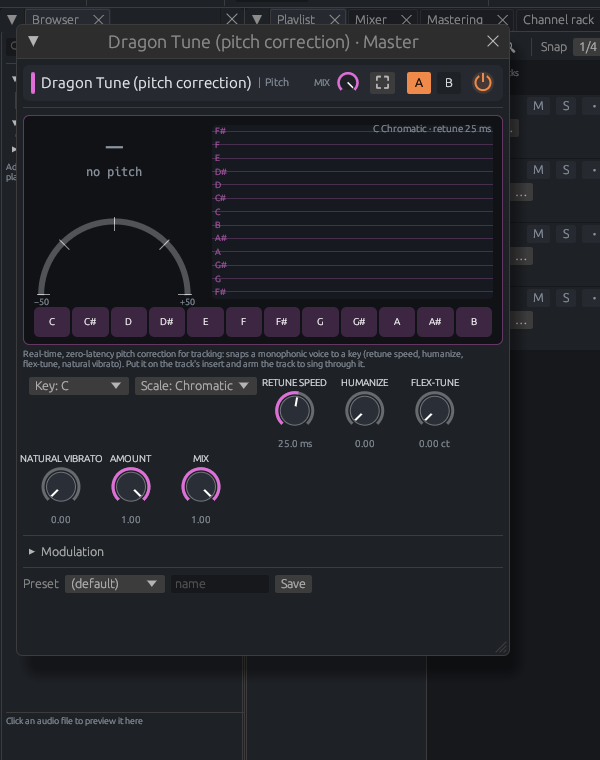
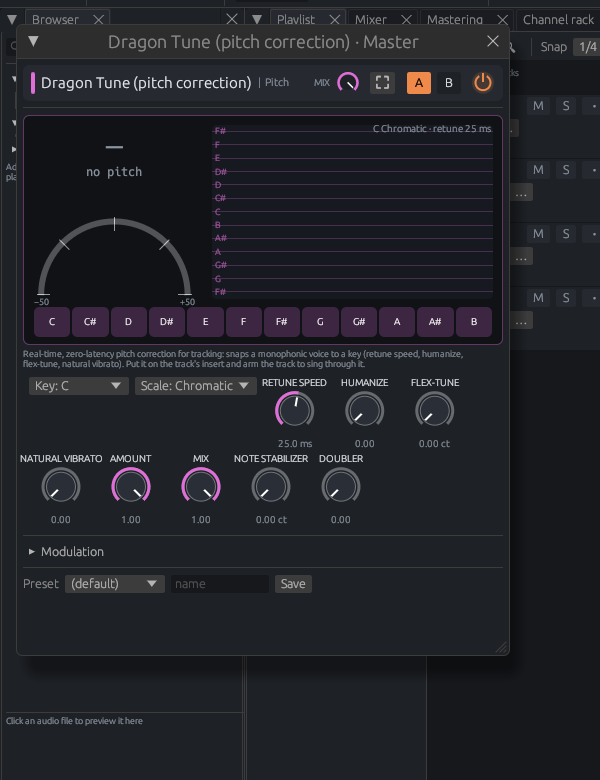
Plugin windows keep the editor's size under window managers; MetaTune features in Dragon Tune
- Fixed-size plugin windows set min = max size hints at their first size, so a window
  manager kept them there when the plugin asked for another size; the hints now follow
  every resize, and full screen lifts them (restored afterwards)
- Host test: the CLAP and VST3 test editors' windows take 500 x 400 after their resize
  request; with DRAGON_TEST_WM=1 under a window manager full screen fills the screen and
  returns to the editor size
- Dragon Tune: note stabilizer and doubler (after MetaTune) with a test, heat map on the
  note keys; screenshot updated

Claude-Session: https://claude.ai/code/session_01Ffo2AZuJnk2VUfQjcmSkWA

diff --git a/crates/engine/src/effects/pitch.rs b/crates/engine/src/effects/pitch.rs
@@ -178,6 +178,11 @@ const TUNE_PARAMS: &[ParamInfo] = &[
     ParamInfo::lin("vibrato", "Natural vibrato", 0.0, 1.0, 0.0, ""),
     ParamInfo::lin("amount", "Amount", 0.0, 1.0, 1.0, ""),
     ParamInfo::lin("mix", "Mix", 0.0, 1.0, 1.0, ""),
+    // MetaTune's Note Stabilizer: a held note is kept until the voice moves this far past the midpoint to
+    // the next note (no flutter between two notes).
+    ParamInfo::lin("stabilizer", "Note stabilizer", 0.0, 100.0, 0.0, "ct"),
+    // MetaTune's Doubler: two tuned copies, slightly delayed and detuned, panned left and right.
+    ParamInfo::lin("doubler", "Doubler", 0.0, 1.0, 0.0, ""),
 ];
 
 /// Analysis every 128 samples (2.7 ms at 48 kHz) over 1024 samples (enough for voices down to ~90 Hz).
@@ -211,6 +216,12 @@ pub struct PitchCorrect {
     pub detected: Option<f32>,
     /// [detected MIDI (−1 = none), target MIDI, output MIDI, clarity] for the display.
     tele: [f32; 4],
+    stabilizer: f32,
+    doubler: f32,
+    /// Doubler: delay lines of the tuned signal and the modulation phase.
+    dbl: [Vec<f32>; 2],
+    dbl_pos: usize,
+    dbl_phase: f32,
 }
 
 impl PitchCorrect {
@@ -238,6 +249,11 @@ impl PitchCorrect {
             centre: 0.0,
             detected: None,
             tele: [-1.0, -1.0, -1.0, 0.0],
+            stabilizer: 0.0,
+            doubler: 0.0,
+            dbl: [vec![0.0; (rate * 0.05) as usize + 4], vec![0.0; (rate * 0.05) as usize + 4]],
+            dbl_pos: 0,
+            dbl_phase: 0.0,
         }
     }
 
@@ -256,7 +272,11 @@ impl PitchCorrect {
                 } else {
                     self.centre += (m - self.centre) * 0.08;
                 }
-                let target = nearest_in_scale(self.centre, self.key, TUNE_SCALES[self.scale].1);
+                let mut target = nearest_in_scale(self.centre, self.key, TUNE_SCALES[self.scale].1);
+                // Note stabilizer: stay on the held note until the voice is clearly on another.
+                if self.stabilizer > 0.0 && self.held.0 > 0.0 && (target - self.held.0).abs() > 0.01 && (self.centre - self.held.0).abs() * 100.0 < 50.0 + self.stabilizer {
+                    target = self.held.0;
+                }
                 let wobble = (m - self.centre) * self.vibrato;
                 let off_cents = (target - m).abs() * 100.0;
                 // Flex-tune: notes already within the window are left alone.
@@ -295,6 +315,8 @@ impl Effect for PitchCorrect {
             "humanize" => self.humanize = v.clamp(0.0, 1.0),
             "flex" => self.flex = v.clamp(0.0, 50.0),
             "vibrato" => self.vibrato = v.clamp(0.0, 1.0),
+            "stabilizer" => self.stabilizer = v.clamp(0.0, 100.0),
+            "doubler" => self.doubler = v.clamp(0.0, 1.0),
             _ => {}
         }
     }
@@ -308,6 +330,7 @@ impl Effect for PitchCorrect {
         self.fill = 0;
         self.ratio = 1.0;
         self.target_ratio = 1.0;
+        self.dbl.iter_mut().for_each(|d| d.fill(0.0));
     }
     fn process(&mut self, l: &mut [f32], r: &mut [f32], _sc: Option<(&[f32], &[f32])>) {
         // Humanize: notes held longer than ~120 ms are retuned more slowly (up to 8× the speed setting).
@@ -326,8 +349,29 @@ impl Effect for PitchCorrect {
             }
             self.ratio = self.target_ratio + (self.ratio - self.target_ratio) * coef;
             let (dl, dr) = (l[i], r[i]);
-            let wl = self.sl.process(dl, self.ratio);
-            let wr = self.sr.process(dr, self.ratio);
+            let mut wl = self.sl.process(dl, self.ratio);
+            let mut wr = self.sr.process(dr, self.ratio);
+            if self.doubler > 0.0 {
+                // Two copies of the tuned voice: 14 and 23 ms behind, their delay swaying slowly (a few
+                // cents of detune), one on each side.
+                let n = self.dbl[0].len();
+                self.dbl[0][self.dbl_pos] = wl;
+                self.dbl[1][self.dbl_pos] = wr;
+                self.dbl_phase = (self.dbl_phase + 0.37 / self.rate).fract();
+                let sway = (self.dbl_phase * std::f32::consts::TAU).sin();
+                let tap = |buf: &[f32], ms: f32| {
+                    let d = (ms * 0.001 * self.rate).min(n as f32 - 2.0);
+                    let p = (self.dbl_pos as f32 - d).rem_euclid(n as f32);
+                    let (k, f) = (p.floor() as usize, p.fract());
+                    buf[k] * (1.0 - f) + buf[(k + 1) % n] * f
+                };
+                let a = tap(&self.dbl[0], 14.0 + 1.5 * sway);
+                let b = tap(&self.dbl[1], 23.0 - 1.5 * sway);
+                self.dbl_pos = (self.dbl_pos + 1) % n;
+                let g = self.doubler * 0.7;
+                wl += a * g;
+                wr += b * g;
+            }
             l[i] = dl * (1.0 - self.mix) + wl * self.mix;
             r[i] = dr * (1.0 - self.mix) + wr * self.mix;
         }
@@ -395,6 +439,45 @@ mod tests {
         assert!(ms < 6.0, "grain delay {ms:.1} ms");
         let t = e.telemetry();
         assert!((t[0] - 57.0).abs() < 0.1, "detected A3: {t:?}");
+    }
+
+    /// MetaTune's Note Stabilizer holds a note when the voice wavers just past the midpoint; the Doubler
+    /// widens a mono voice (the two sides differ).
+    #[test]
+    fn stabilizer_and_doubler() {
+        // C4 held, then the voice drifts to 60.6 (past the C/C# midpoint, chromatic scale).
+        let run = |stab: f32| {
+            let mut e = PitchCorrect::new(48000.0);
+            e.set_param("stabilizer", stab);
+            let hz = |m: f32| 440.0 * 2f32.powf((m - 69.0) / 12.0);
+            let mut ph = 0.0f32;
+            let mut sig = |m: f32, n: usize| -> Vec<f32> {
+                (0..n)
+                    .map(|_| {
+                        ph += hz(m) / 48000.0;
+                        (ph * std::f32::consts::TAU).sin() * 0.5
+                    })
+                    .collect()
+            };
+            let mut x = sig(60.0, 24000);
+            x.extend(sig(60.6, 24000));
+            let (mut l, mut r) = (x.clone(), x);
+            for (a, b) in l.chunks_mut(64).zip(r.chunks_mut(64)) {
+                e.process(a, b, None);
+            }
+            e.telemetry()[1]
+        };
+        assert_eq!(run(0.0), 61.0, "without the stabilizer it jumps to C#");
+        assert_eq!(run(30.0), 60.0, "the stabilizer keeps C");
+        let mut e = PitchCorrect::new(48000.0);
+        e.set_param("doubler", 1.0);
+        let x = sine(220.0, 1.0);
+        let (mut l, mut r) = (x.clone(), x);
+        for (a, b) in l.chunks_mut(64).zip(r.chunks_mut(64)) {
+            e.process(a, b, None);
+        }
+        let diff: f32 = l[24000..].iter().zip(&r[24000..]).map(|(a, b)| (a - b).abs()).sum::<f32>() / 24000.0;
+        assert!(diff > 0.02, "doubled sides differ: {diff}");
     }
 
     /// Flex-tune leaves notes that are already close enough alone.

diff --git a/crates/engine/src/plugins/window.rs b/crates/engine/src/plugins/window.rs
@@ -9,12 +9,17 @@ use std::ffi::c_void;
 
 pub struct EditorWindow {
     inner: imp::Window,
+    /// Whether the user may resize the window; a fixed-size window's size hints follow every resize the
+    /// plugin asks for (otherwise a window manager keeps it at the size it opened with).
+    resizable: bool,
+    /// The size before full screen.
+    before: (u32, u32),
 }
 
 impl EditorWindow {
     /// Opens a window of `width` × `height` pixels.
     pub fn open(title: &str, width: u32, height: u32) -> Result<EditorWindow> {
-        Ok(EditorWindow { inner: imp::Window::open(title, width.max(32), height.max(32))? })
+        Ok(EditorWindow { inner: imp::Window::open(title, width.max(32), height.max(32))?, resizable: true, before: (width.max(32), height.max(32)) })
     }
 
     /// The native handle to embed into: an X11 window id, or an `HWND`.
@@ -23,7 +28,11 @@ impl EditorWindow {
     }
 
     pub fn resize(&mut self, width: u32, height: u32) {
-        self.inner.resize(width.max(32), height.max(32));
+        let (w, h) = (width.max(32), height.max(32));
+        if !self.resizable && !self.inner.fullscreen {
+            self.inner.set_resizable(false, (w, h));
+        }
+        self.inner.resize(w, h);
     }
 
     /// Current inner size in pixels.
@@ -33,12 +42,29 @@ impl EditorWindow {
 
     /// Lets the user resize the window (only for editors that can follow a new size).
     pub fn set_resizable(&mut self, on: bool, size: (u32, u32)) {
+        self.resizable = on;
         self.inner.set_resizable(on, size);
     }
 
     /// Full screen on (covers the monitor) or back to the previous size.
     pub fn set_fullscreen(&mut self, on: bool) {
-        self.inner.set_fullscreen(on);
+        if on == self.inner.fullscreen {
+            return;
+        }
+        if on {
+            // A fixed-size window would be refused by the window manager: lift the limits first.
+            self.before = self.inner.size();
+            if !self.resizable {
+                self.inner.set_resizable(true, self.before);
+            }
+            self.inner.set_fullscreen(true);
+        } else {
+            self.inner.set_fullscreen(false);
+            if !self.resizable {
+                self.inner.set_resizable(false, self.before);
+                self.inner.resize(self.before.0, self.before.1);
+            }
+        }
     }
 
     pub fn is_fullscreen(&self) -> bool {

diff --git a/crates/test-plugins/tests/host.rs b/crates/test-plugins/tests/host.rs
@@ -236,6 +236,35 @@ fn editors_embed_resize_and_report_gui_edits() {
     assert_eq!(cp.editor_window().unwrap().child_count(), 1);
     assert!(Effect::editor(&mut vp, true));
     assert_eq!(vp.editor_window().unwrap().child_count(), 1);
+    // The host window takes exactly the editor's size: 320 × 200 at first, 500 × 400 after the plugin
+    // asked for it.
+    for _ in 0..20 {
+        Effect::idle(&mut cp);
+        Effect::idle(&mut vp);
+        std::thread::sleep(std::time::Duration::from_millis(5));
+    }
+    assert_eq!(cp.editor_window().unwrap().size(), (500, 400), "clap window fits its editor");
+    assert_eq!(vp.editor_window().unwrap().size(), (500, 400), "vst3 window fits its editor");
+    // Full screen needs a window manager (EWMH); run with DRAGON_TEST_WM=1 under one (e.g. openbox on Xvfb).
+    if std::env::var_os("DRAGON_TEST_WM").is_some() {
+        let settle = |cp: &mut ClapPlugin, vp: &mut Vst3Plugin| {
+            for _ in 0..40 {
+                Effect::idle(cp);
+                Effect::idle(vp);
+                std::thread::sleep(std::time::Duration::from_millis(10));
+            }
+        };
+        assert!(cp.set_editor_fullscreen(true) && vp.set_editor_fullscreen(true));
+        settle(&mut cp, &mut vp);
+        let screen = |w: (u32, u32)| w.0 >= 1000 && w.1 >= 700;
+        assert!(screen(cp.editor_window().unwrap().size()), "clap full screen: {:?}", cp.editor_window().unwrap().size());
+        assert!(screen(vp.editor_window().unwrap().size()), "vst3 full screen: {:?}", vp.editor_window().unwrap().size());
+        // (returns the new state: false = left full screen)
+        assert!(!cp.set_editor_fullscreen(false) && !vp.set_editor_fullscreen(false));
+        settle(&mut cp, &mut vp);
+        assert_eq!(cp.editor_window().unwrap().size(), (500, 400), "clap back to its editor size");
+        assert_eq!(vp.editor_window().unwrap().size(), (500, 400), "vst3 back to its editor size");
+    }
 }
 
 #[test]

diff --git a/crates/app/src/views/fx_ui.rs b/crates/app/src/views/fx_ui.rs
@@ -1420,10 +1420,28 @@ fn tune(p: &egui::Painter, r: Rect, h: &Hero, col: Color32) {
     let kr = Rect::from_min_max(Pos2::new(r.left() + 10.0, r.bottom() - 38.0), Pos2::new(r.right() - 10.0, r.bottom() - 8.0));
     let kw = kr.width() / 12.0;
     let tgt = if target >= 0.0 { Some((target.round() as i32).rem_euclid(12) as usize) } else { None };
+    // MetaTune-style heat map: every detected note warms its key; the heat fades over a few seconds.
+    let heat_id = h.key.with("tune.heat");
+    let mut heat: [f32; 12] = p.ctx().data(|d| d.get_temp(heat_id)).unwrap_or([0.0; 12]);
+    if h.time.is_some() {
+        for v in heat.iter_mut() {
+            *v *= 0.985;
+        }
+        if let Some(d) = det {
+            let pc = (d.round() as i32).rem_euclid(12) as usize;
+            heat[pc] = (heat[pc] + 0.06).min(1.0);
+        }
+        p.ctx().data_mut(|d| d.insert_temp(heat_id, heat));
+    }
     for (i, nm) in KEYS.iter().enumerate() {
         let b = Rect::from_min_size(Pos2::new(kr.left() + i as f32 * kw + 1.0, kr.top()), Vec2::new(kw - 2.0, kr.height()));
         let on = in_scale(i);
         let lit = tgt == Some(i);
+        // Heat glow (orange) under the key.
+        if heat[i] > 0.02 {
+            let hc = Color32::from_rgb(0xf0, 0x8a, 0x4b).gamma_multiply(heat[i].sqrt() * 0.9);
+            p.rect_filled(b.expand(2.0), 6.0, hc);
+        }
         p.rect_filled(
             b,
             5.0,

diff --git a/README.md b/README.md
@@ -45,7 +45,7 @@ docking, command pool, shortcuts, palette, navigation and i18n. Dragon DAW is no
 | 🎙 **Record** | Arm tracks, choose stereo or mono inputs, monitoring modes, metronome with count-in, loop and punch ranges, automatic round-trip latency compensation, takes stacked into lanes with **comping** by dragging a range, MIDI note recording into patterns |
 | ✂ **Arrange & edit** | Playlist with audio, pattern and **automation clips**, a **picker panel** on its left listing every pattern (split ones included), the project's audio files and its automation clips – drag any of them onto a track, FL-style **Ctrl + right-drag zoom to area** (also in the piano roll), middle-drag panning, move / trim / resize / split / duplicate / mute, **multi-select** (Ctrl+drag) and multi-track moves, Shift+drag to clone, an FL-style **slice tool** that cuts across tracks (also in the piano roll), drag several patterns / audio / automation clips from the picker at once, cross-track moves, clip gain, pan, fades with three curves, reverse, pitch, varispeed and pitch-preserving **time-stretch** (WSOLA), fit-to-tempo with BPM detection, markers, tempo and time-signature changes, unlimited undo with a history list |
 | 🎛 **Mix** | FL Studio-style mixer: insert strips with **hanging routing cables** (pull a cable from a strip's jack onto another strip to route it; signal flows along the cables while audio plays), route arrows and send knobs, the selected insert's **large effect slots on the right** (category colour, drag to reorder, bypass LED, mix knob, gain-reduction bar, replace), click-free parameter smoothing, pre/post-fader sends, output routing to buses, sidechain inputs, VCA faders, stereo width, polarity, L/R swap, solo-safe, peak and gain-reduction meters, **plugin delay compensation** across the whole routing graph, automation lanes (read / write / touch / latch / trim), MIDI learn |
-| 🧪 **25 stock effects** | **Dragon Tune** real-time pitch correction for tracking (≈2.7 ms, humanize, flex-tune, vibrato, MetaTune-style display), 24-band parametric EQ after Pro-Q (**live analyzer**, spectrum grab, dynamic bands, mid/side, zero-latency / natural / linear phase, **EQ match** and collision view against another track's EQ, piano scale), compressor with eight styles, look-ahead and a **scrolling level / gain-reduction history**, a multiband saturator after Saturn, **multiband dynamics** after Pro-MB (four bands, compress / expand, upward / downward), a **gate** after Pro-G (hysteresis, look-ahead, styles, flip), limiter (eight styles, 2×/4× oversampling, unity-gain listen), a **de-esser** after Pro-DS (single-vocal / allround, split / wide band, look-ahead), a **transient designer** (attack / sustain amount, sensitivity, duration and shape, clip guard, listen modes), reverb (with decay-rate EQ), a delay after Timeless (cross feedback, drive, diffusion, ducking, freeze, pitch in the loop), chorus, flanger, phaser, tremolo, saturator with **nine tube models**, bitcrusher, a dual filter after Volcano (seven types, 12–48 dB/oct, four styles, serial / parallel), utility, stereo imager with a **phase meter** (goniometer + correlation), **Dragon Particle** one-knob mastering, **Class-A Strip** (transformer preamp + stepped EQ + tube opto compressor for recording), **Drum Bus**, **Clean Voice** (post-production vocal chain after zenoxart/CleanVoice) and **Alter** (pitch + formant shifter, robot mode). Every editor has an animated, interactive display, **A/B compare**, a power button and mix knob, presets, a **full-screen** button; every knob: drag (Shift = fine), wheel, double-click or Ctrl+click resets, right-click to **type a value**. The **Effect gallery** (View menu, F8) browses and adds them |
+| 🧪 **25 stock effects** | **Dragon Tune** real-time pitch correction for tracking (≈2.7 ms, humanize, flex-tune, vibrato, note stabilizer, doubler, MetaTune-style display with a note heat map), 24-band parametric EQ after Pro-Q (**live analyzer**, spectrum grab, dynamic bands, mid/side, zero-latency / natural / linear phase, **EQ match** and collision view against another track's EQ, piano scale), compressor with eight styles, look-ahead and a **scrolling level / gain-reduction history**, a multiband saturator after Saturn, **multiband dynamics** after Pro-MB (four bands, compress / expand, upward / downward), a **gate** after Pro-G (hysteresis, look-ahead, styles, flip), limiter (eight styles, 2×/4× oversampling, unity-gain listen), a **de-esser** after Pro-DS (single-vocal / allround, split / wide band, look-ahead), a **transient designer** (attack / sustain amount, sensitivity, duration and shape, clip guard, listen modes), reverb (with decay-rate EQ), a delay after Timeless (cross feedback, drive, diffusion, ducking, freeze, pitch in the loop), chorus, flanger, phaser, tremolo, saturator with **nine tube models**, bitcrusher, a dual filter after Volcano (seven types, 12–48 dB/oct, four styles, serial / parallel), utility, stereo imager with a **phase meter** (goniometer + correlation), **Dragon Particle** one-knob mastering, **Class-A Strip** (transformer preamp + stepped EQ + tube opto compressor for recording), **Drum Bus**, **Clean Voice** (post-production vocal chain after zenoxart/CleanVoice) and **Alter** (pitch + formant shifter, robot mode). Every editor has an animated, interactive display, **A/B compare**, a power button and mix knob, presets, a **full-screen** button; every knob: drag (Shift = fine), wheel, double-click or Ctrl+click resets, right-click to **type a value**. The **Effect gallery** (View menu, F8) browses and adds them |
 | 🏁 **Master** | Momentary / short-term / integrated LUFS and true peak (ITU-R BS.1770), loudness targets for streaming, broadcast and club, a spectrum analyser, a **reference track** comparison (pick a region; loudness, RMS, crest, LRA, stereo and tonal balance side by side, with suggestions and loudness-matched A/B), a one-click mastering chain, and export normalised to a LUFS target or peak |
 | 💾 **Export** | WAV 16 / 24 / 32-float, FLAC 16 / 24, MP3, Ogg Vorbis, 44.1–96 kHz, song / loop / pattern range, tail, TPDF dither, mono, **stems** (one file per mixer channel), bounce-in-place, MIDI export |
 | 🔌 **Plugins** | CLAP and VST3 instruments and effects, **crash-isolated scanning** (each file in its own process), plugin GUIs embedded in native host windows (Linux X11, Windows) that **resize with the plugin** and can go **full screen**, generic parameter editors, sidechain into plugins, full plugin state saved in the project, latency reported to PDC |

diff --git a/docs/FEATURES.md b/docs/FEATURES.md
@@ -152,7 +152,7 @@ What the stock effects share with FabFilter's handling, and what is still missin
 | Timeless: tempo-synced stereo delay with feedback, cross feedback, drive in the loop, filter with resonance, diffusion, ducking, freeze, width and pitch shift in the loop | ✅ Delay (no modulation matrix beyond the shared LFO / envelope / XY sources) |
 | Volcano: two filters (LP, HP, BP, notch, peak, shelves) at 12 / 24 / 48 dB/oct, styles (Clean, Smooth, Ram, Hack), drive, serial / parallel routing, B following A, stereo spread | ✅ Filter |
 | Pro-G: threshold with hysteresis, range, ratio (gate … expander), knee, attack, hold, release, look-ahead, styles (Classic, Clean, Vocal, Guitar, Upward), sidechain filters, external sidechain, flip (ducking), mix, listen | ✅ Gate |
-| Every plugin: A/B compare, presets, resizable / full screen, typed values, Ctrl+click reset, fine drag | ✅ |
+| Every plugin: A/B compare, presets, resizable / full screen, typed values, Ctrl+click reset, fine drag | ✅ (stock editors: fitted window, never under 480 px, full screen in a window of its own; CLAP / VST3 editors: the window takes the editor's requested size, also under window managers, and full screen lifts the size lock – tested with openbox on Xvfb) |
 
 ## The new plugins against their published references
 
@@ -170,7 +170,7 @@ Checked against the manufacturers' manuals and spec sheets (tests in `effects/st
 
 | Feature | Status | Where |
 |---|---|---|
-| Pitch correction (Auto-Tune / Newtone style) | ✅ | "Dragon Tune" effect: real-time and low latency for tracking (pitch-synchronous shifting, 2.7 ms hop), YIN detection, key + scale, retune speed, humanize, flex-tune, vibrato (`effects/pitch.rs`) |
+| Pitch correction (Auto-Tune / Newtone style) | ✅ | "Dragon Tune" effect: real-time and low latency for tracking (pitch-synchronous shifting, 2.7 ms hop), YIN detection, key + scale, retune speed, humanize, flex-tune, vibrato; after MetaTune: note stabilizer, doubler, heat map on the note keys, big note readout with a ±50 ct meter and a pitch graph over note lanes (`effects/pitch.rs`); MetaTune's negative speed and grouped instances are not there |
 | MP3 / Ogg Vorbis export | ✅ | LAME and libvorbis (aoTuV) encoders, export dialog and `dragon render --format mp3/ogg` |
 | Native plugin editors embedded in a host window | ✅ Linux (X11) / Windows | `plugins/window.rs`; the plugin's own window opens automatically with its effect / instrument window (generic controls as a fallback, with the reason when a GUI cannot open). VST3: `IPlugFrame`, `IRunLoop` (Linux), `IComponentHandler` (GUI edits reach the processor and the project, one undo step per knob turn), host-created `IMessage` / `IAttributeList`, content scale for HiDPI. CLAP: `set_parent`, `set_scale`, timer / fd host extensions, GUI edits from output events. Tested on Linux and Windows CI with real windows, and with 40 real third-party builds (Dragonfly Reverb, DISTRHO collection incl. the OpenGL ProM visualiser; VST3 and CLAP): all 28 with a GUI embed, the 10 without one fall back to generic controls – re-run with `DRAGON_THIRD_PARTY=<folders> cargo test -p dragon-test-plugins --test third_party -- --ignored --nocapture`. CLAP plugins shipped as folders (`Name.clap/Name.clap`) load. macOS ❌ |
 | Sidechain into plugins | ✅ | CLAP second input port, VST3 aux input bus |
